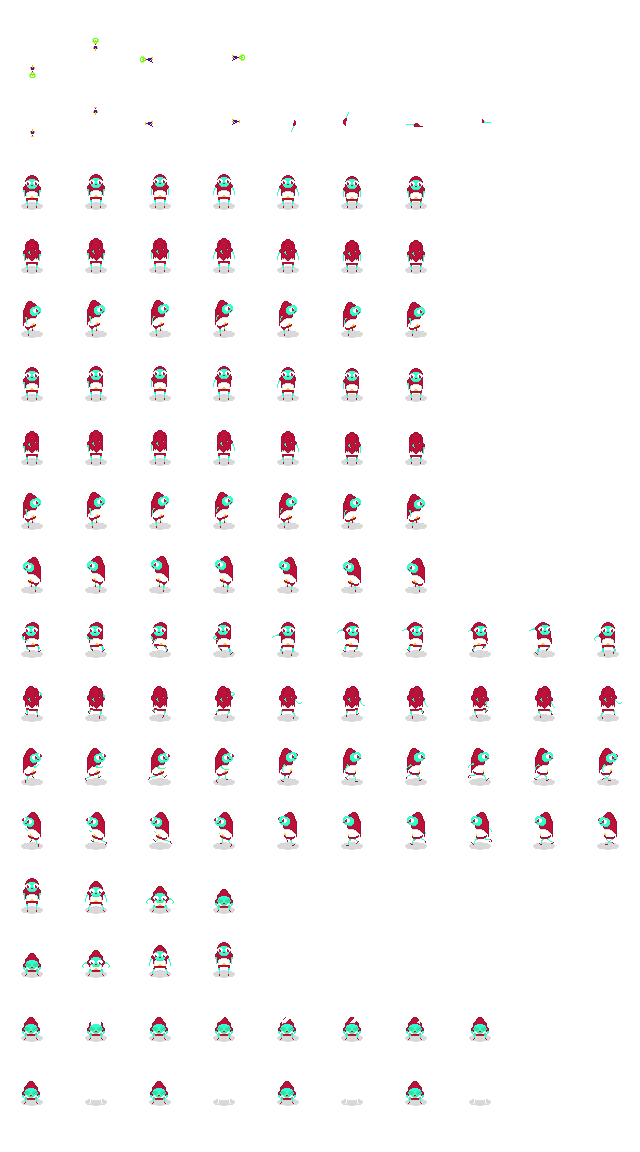
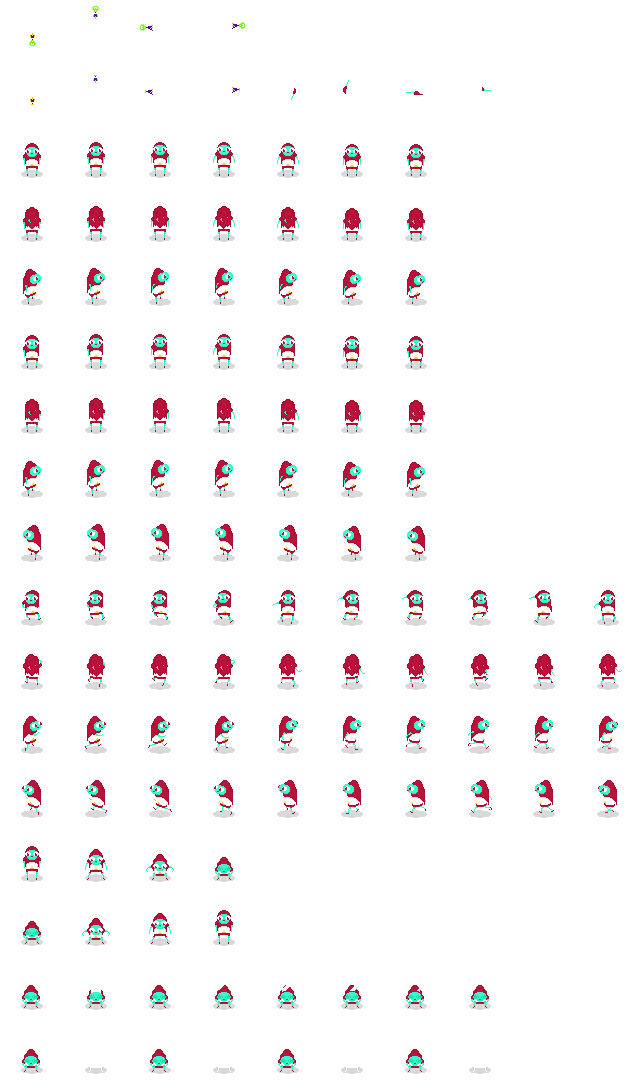
shell move for player! (hit period)
woot

diff --git a/Player.cs b/Player.cs
@@ -18,9 +18,11 @@ namespace OSHO
         public AnimatedSprite playerArm;
 
         public Animation idleDownAnimation;
-        public Animation idleUpAnimation;
-        public Animation idleLeftAnimation;
-        public Animation idleRightAnimation;
+        public Animation idleDownFire;
+        //public Animation idleUpAnimation;
+        //public Animation idleLeftAnimation;
+        //public Animation idleRightAnimation;
+
 
         public Animation weaponDown;
         public Animation weaponUp;
@@ -44,6 +46,11 @@ namespace OSHO
         public Animation playerArmLeft;
         public Animation playerArmRight;
         public Animation playerArmClear;
+
+        public Animation playerStartShell;
+        public Animation playerEndShell;
+        public Animation shellShine;
+        public Animation shellEndWarning;
 
         public Shader test;
 
@@ -85,7 +92,7 @@ namespace OSHO
             this.position = position;
 
 
-            atexture = new Texture("assets/HunchSprite.png");
+            atexture = new Texture("assets/Hunch2.png");
 
             baseSprite = new AnimatedSprite(atexture, 64, 64);
             playerWeaponSprite = new AnimatedSprite(atexture, 64, 64);
@@ -99,15 +106,16 @@ namespace OSHO
             
             // Create animations
             idleDownAnimation = new Animation("idleDown", 20, 7);
-            idleUpAnimation = new Animation("idleUp", 30, 7);
-            idleRightAnimation = new Animation("idleRight", 40, 7);
-            idleLeftAnimation = new Animation("idleLeft", 40, 7, true);
+            idleDownFire = new Animation("idleFire", 50, 7);
+            //idleUpAnimation = new Animation("idleUp", 30, 7);
+            //idleRightAnimation = new Animation("idleRight", 40, 7);
+            //idleLeftAnimation = new Animation("idleLeft", 40, 7, true);
 
             //runs.
-            runDownAnimation = new Animation("runDown", 50, 10);
-            runUpAnimation = new Animation("runUp", 60, 10);
-            runRightAnimation = new Animation("runRight", 70, 10);
-            runLeftAnimation = new Animation("runLeft", 80, 10);
+            runDownAnimation = new Animation("runDown", 90, 10);
+            runUpAnimation = new Animation("runUp", 100, 10);
+            runRightAnimation = new Animation("runRight", 110, 10);
+            runLeftAnimation = new Animation("runLeft", 120, 10);
 
             weaponDown = new Animation("weaponDown", 10, 1);
             weaponUp = new Animation("weaponUp", 11, 1);
@@ -127,15 +135,25 @@ namespace OSHO
             playerArmRight = new Animation("armRight", 17, 1);
             playerArmClear = new Animation("armClear", 29, 1);
 
+            playerStartShell = new Animation("startShell", 130, 4);
+            playerEndShell = new Animation("endShell", 140, 4);
+            shellShine = new Animation("shellShine", 150, 8);
+            shellEndWarning = new Animation("endShellWarning", 160, 8);
+
             // Add animations
             baseSprite.AddAnimation(idleDownAnimation);
-            baseSprite.AddAnimation(idleUpAnimation);
-            baseSprite.AddAnimation(idleRightAnimation);
-            baseSprite.AddAnimation(idleLeftAnimation);
+            baseSprite.AddAnimation(idleDownFire);
+            //baseSprite.AddAnimation(idleUpAnimation);
+            //baseSprite.AddAnimation(idleRightAnimation);
+            //baseSprite.AddAnimation(idleLeftAnimation);
             baseSprite.AddAnimation(runDownAnimation);
             baseSprite.AddAnimation(runUpAnimation);
             baseSprite.AddAnimation(runRightAnimation);
             baseSprite.AddAnimation(runLeftAnimation);
+            baseSprite.AddAnimation(playerStartShell);
+            baseSprite.AddAnimation(playerEndShell);
+            baseSprite.AddAnimation(shellShine);
+            baseSprite.AddAnimation(shellEndWarning);
 
             playerWeaponSprite.AddAnimation(weaponDown);
             playerWeaponSprite.AddAnimation(weaponUp);
@@ -155,10 +173,10 @@ namespace OSHO
             //baseSprite.AddShader(test);
 
             // Test animation
-            baseSprite.animationController.SetActiveAnimation(idleRightAnimation);
+            baseSprite.animationController.SetActiveAnimation(idleDownAnimation);
             playerDrawable.drawPartsInFront = false;
-            playerWeaponSprite.animationController.SetActiveAnimation(weaponRight);
-            playerArm.animationController.SetActiveAnimation(playerArmRight);
+            playerWeaponSprite.animationController.SetActiveAnimation(weaponDown);
+            playerArm.animationController.SetActiveAnimation(playerArmDown);
 
             this.world = world;
 			colliderOffset = new Vector2(-20, -10);
@@ -285,11 +303,26 @@ namespace OSHO
 
         public void CheckForIdle()
         {
+            /*playerStartShell = new Animation("startShell", 130, 4);
+            playerEndShell = new Animation("endShell", 140, 4);
+            shellShine = new Animation("shellShine", 150, 8);
+            shellEndWarning = new Animation("endShellWarning", 160, 8);*/
+
             if (Math.Abs(this.collider.velocity.X) < 2f && Math.Abs(this.collider.velocity.Y) < 2f)
             {
-                this.baseSprite.animationController.SetActiveAnimation(idleDownAnimation);
-                this.playerWeaponSprite.animationController.SetActiveAnimation(weaponClear);
-                this.playerArm.animationController.SetActiveAnimation(playerArmClear);
+                if (this.baseSprite.animationController.GetActiveAnimationName() != "idleFire")
+                {
+                    if (this.baseSprite.animationController.GetActiveAnimationName() != "shellShine" &&
+                        this.baseSprite.animationController.GetActiveAnimationName() != "startShell" &&
+                        this.baseSprite.animationController.GetActiveAnimationName() != "endShell" &&
+                        this.baseSprite.animationController.GetActiveAnimationName() != "endShellWarning")
+                    {
+                        //Console.WriteLine("setting idle");
+                        this.baseSprite.animationController.SetActiveAnimation(idleDownAnimation);
+                        this.playerWeaponSprite.animationController.SetActiveAnimation(weaponClear);
+                        this.playerArm.animationController.SetActiveAnimation(playerArmClear);
+                    }
+                }
             }
         }
 
@@ -498,7 +531,22 @@ namespace OSHO
 			}
 			else
 			{
-				inSheild = false;
+                //Console.WriteLine(inSheild);
+                // check to see if we had this button
+                if (inSheild)
+                {
+                    // we ending shell
+                    this.baseSprite.animationController.SetActiveAnimation(playerEndShell);
+                    this.baseSprite.animationController.dontLoop = true;
+                }
+
+                // see if we have finished yet.
+                if (this.baseSprite.animationController.GetActiveAnimationName() == "endShell")
+                {
+                    this.baseSprite.animationController.dontLoop = false;
+                    this.baseSprite.animationController.SetActiveAnimation(idleDownAnimation);
+                    inSheild = false;
+                }
 			}
 
 			// need to add to the cooldown whether we have the button down or not.
@@ -551,26 +599,41 @@ namespace OSHO
 						case "runDown":
 							//Console.WriteLine("Case 1");
 							Vector2 velocityToAdd = new Vector2(0, bulletVelocity);
-                            Vector2 spawnPosition = new Vector2(this.position.X + 26, this.position.Y + 44);
+                            Vector2 spawnPosition = new Vector2(this.position.X + 30, this.position.Y + 44);
 							FireBullet(velocityToAdd, spawnPosition);
 							break;
 						case "runUp":
 							//Console.WriteLine("Case 2");
 							Vector2 velocityToAdd2 = new Vector2(0, -(bulletVelocity));
-                            Vector2 spawnPosition2 = new Vector2(this.position.X + 22, this.position.Y);
+                            Vector2 spawnPosition2 = new Vector2(this.position.X + 28, this.position.Y);
 							FireBullet(velocityToAdd2, spawnPosition2);
 							break;
 						case "runRight":
 							//Console.WriteLine("Case 2");
 							Vector2 velocityToAdd3 = new Vector2(bulletVelocity, 0);
-                            Vector2 spawnPosition3 = new Vector2(this.position.X + 42, this.position.Y + 18);
+                            Vector2 spawnPosition3 = new Vector2(this.position.X + 50, this.position.Y + 24);
 							FireBullet(velocityToAdd3, spawnPosition3);
 							break;
 						case "runLeft":
 							//Console.WriteLine("Case 2");
 							Vector2 velocityToAdd4 = new Vector2(-(bulletVelocity), 0);
-                            Vector2 spawnPosition4 = new Vector2(this.position.X + 6, this.position.Y + 18);
+                            Vector2 spawnPosition4 = new Vector2(this.position.X + 10, this.position.Y + 24);
 							FireBullet(velocityToAdd4, spawnPosition4);
+							break;
+                        case "idleDown":
+                        case "idleFire":
+                            // animation stuff
+                            //this.collider.AddVelocity(new Vector2(0, vel));
+                            this.baseSprite.animationController.SetActiveAnimation(idleDownFire);
+                            this.playerArm.animationController.SetActiveAnimation(playerArmDown);
+                            this.playerWeaponSprite.animationController.SetActiveAnimation(weaponDown);
+                            this.playerDrawable.drawPartsInFront = true;
+
+                            // bullet stuff
+                            Vector2 velocityToAdd5 = new Vector2(0, bulletVelocity);
+                            Vector2 spawnPosition5 = new Vector2(this.position.X + 30, this.position.Y + 44);
+							FireBullet(velocityToAdd5, spawnPosition5);
+
 							break;
 						default:
 							Console.WriteLine("Default case");
@@ -578,6 +641,15 @@ namespace OSHO
 					}
 
                     timeSinceLastFire = new TimeSpan();
+                }
+            }
+            else
+            {
+                if (this.baseSprite.animationController.GetActiveAnimationName() == "idleFire")
+                {
+                    this.baseSprite.animationController.SetActiveAnimation(idleDownAnimation);
+                    this.playerWeaponSprite.animationController.SetActiveAnimation(weaponClear);
+                    this.playerArm.animationController.SetActiveAnimation(playerArmClear);
                 }
             }
             //Console.WriteLine((int)(deltaTime * 1000));
@@ -603,18 +675,43 @@ namespace OSHO
 			// if we have been holding the button.
 			if (inSheild)
 			{
+                // did we just start? need to check animation
+                if (this.baseSprite.animationController.GetActiveAnimationName() == "startShell")
+                {
+                    if (this.baseSprite.animationController.hasReachedEnd)
+                    {
+                        this.baseSprite.animationController.dontLoop = false;
+                        this.baseSprite.animationController.hasReachedEnd = false;
+                        this.baseSprite.animationController.SetActiveAnimation(shellShine);
+                        
+                    }
+                }
+
+                //Console.WriteLine(timeAllowedInSheild.Seconds + ", " + (timeInSheild.TotalSeconds / 2));
+                // need to check if we expire soon. play flashing white.
+                if (timeAllowedInSheild.Seconds /2 < timeInSheild.TotalSeconds)
+                {
+                    this.baseSprite.animationController.SetActiveAnimation(shellEndWarning);
+                }
+
+
 				// have we been in the sheild too long?
 				if (timeAllowedInSheild < timeInSheild)
 				{
 					//yes
 					inSheild = false;
 					sheildOnCooldown = true;
-					if (sheildCooldown < timeSinceLastSheild)
+					/*if (sheildCooldown < timeSinceLastSheild)
 					{
 						timeInSheild = new TimeSpan();
 						timeSinceLastSheild = new TimeSpan();
 						sheildOnCooldown = false;
-					}
+					}*/
+
+                    this.baseSprite.animationController.SetActiveAnimation(playerEndShell);
+                    this.baseSprite.animationController.dontLoop = true;
+
+                    
 				}
 				else
 				{
@@ -634,10 +731,27 @@ namespace OSHO
 						timeSinceLastSheild = new TimeSpan();
 						sheildOnCooldown = false;
 						inSheild = true;
+                        this.baseSprite.animationController.SetActiveAnimation(playerStartShell);
+                        this.baseSprite.animationController.dontLoop = true;
 					}
+
+                    // see if we have finished yet.
+                    if (this.baseSprite.animationController.GetActiveAnimationName() == "endShell")
+                    {
+                        this.baseSprite.animationController.dontLoop = false;
+                        this.baseSprite.animationController.SetActiveAnimation(idleDownAnimation);
+                        //inSheild = false;
+                    }
 				}
 				else
 				{
+                    //Console.WriteLine("started anim");
+                    // start our animation -- need to check when this one is done.
+                    this.baseSprite.animationController.SetActiveAnimation(playerStartShell);
+                    this.baseSprite.animationController.dontLoop = true;
+                    this.playerWeaponSprite.animationController.SetActiveAnimation(weaponClear);
+                    this.playerArm.animationController.SetActiveAnimation(playerArmClear);
+
 					inSheild = true;
 					timeInSheild = new TimeSpan();
 					timeSinceLastSheild = new TimeSpan();

diff --git a/Bullet.cs b/Bullet.cs
@@ -17,6 +17,7 @@ namespace OSHO
         public float height;
 
         public BoxCollider collider;
+        public Vector2 colliderOffset;
 
         public Vector2 velocity;
 
@@ -34,7 +35,8 @@ namespace OSHO
             width = texture.width;
             height = texture.height;
 
-            collider = new BoxCollider(tag, new Vector2(width, height), this.position);
+            colliderOffset = new Vector2(-3, -3);
+            collider = new BoxCollider(tag, new Vector2(10, 10), this.position + this.colliderOffset);
             collider.AddTagToIgnore("one");
             collider.AddTagToIgnore(tag);
 			collider.AddTagToIgnore("characterMelee");
@@ -54,7 +56,7 @@ namespace OSHO
         public override void Update(float deltaTime)
         {
             //this.collider.AddVelocity(this.velocity);
-            this.position = this.collider.position;
+            this.position = this.collider.position + this.colliderOffset;
             base.Update(deltaTime);
             light.Update(new Vector2((this.collider.position.X + (aSprite.width / 2)), (this.collider.position.Y + (aSprite.height / 2))), deltaTime);
         }
